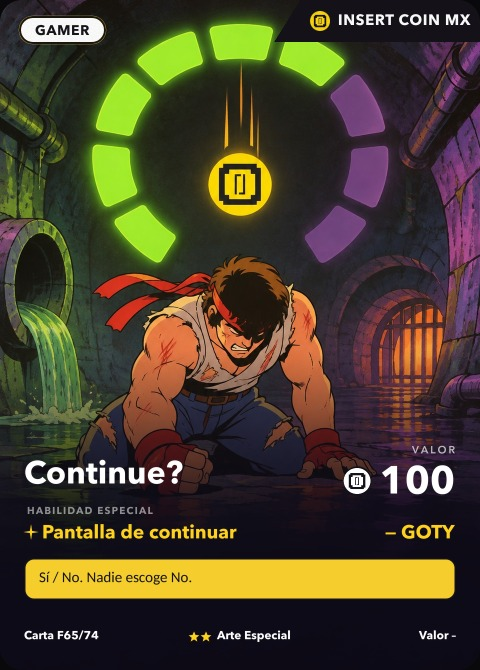
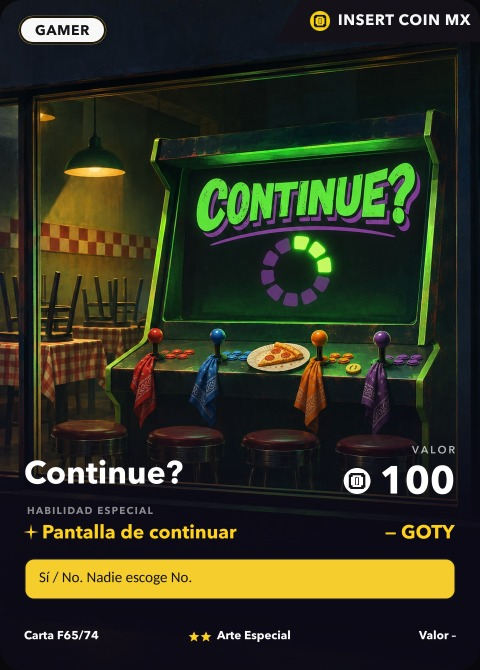
Arte Especial: 7 ilustraciones resubidas (continue, humangamer, hyrule, levelup, mapa, nowloading, poketaco); IMGV 20261120b
Claude-Session: https://claude.ai/code/session_01WEHJpJcfkYZA1kJaQH4uoV

diff --git a/index.html b/index.html
@@ -1654,7 +1654,7 @@ const baseHtml=c=>{
 };
 
 
-const IMGV='20261120a'; // versión de imágenes de cartas: súbela cuando se reemplace un arte (Arte Especial, diseño) para que los navegadores bajen la nueva
+const IMGV='20261120b'; // versión de imágenes de cartas: súbela cuando se reemplace un arte (Arte Especial, diseño) para que los navegadores bajen la nueva
 const VL=['b','e','r','f'],VN={b:'Base',e:'Holo',r:'Dorada',f:'Arte Especial'},VSHORT={b:'Base',e:'Holo',r:'Dorada',f:'Especial'},VC={b:'comun',e:'holo',r:'dorada',f:'full'},OLDV={comun:'b',holo:'e',dorada:'r'};
 const CARDS=[],DB={},ALIAS={},CB={};
 for(const d of DESIGNS){d.fk=d.f?(d.fk||'F_'+d.id):null;DB[d.id]=d;for(const a of d.al||[])ALIAS[a]=d.id;
